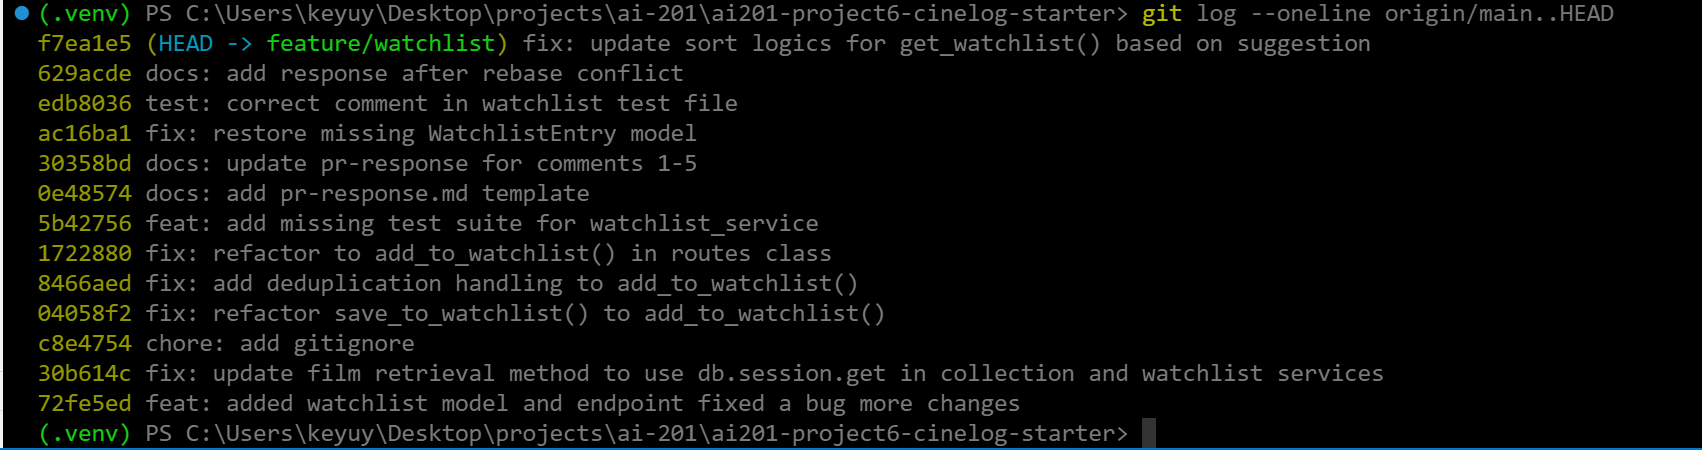
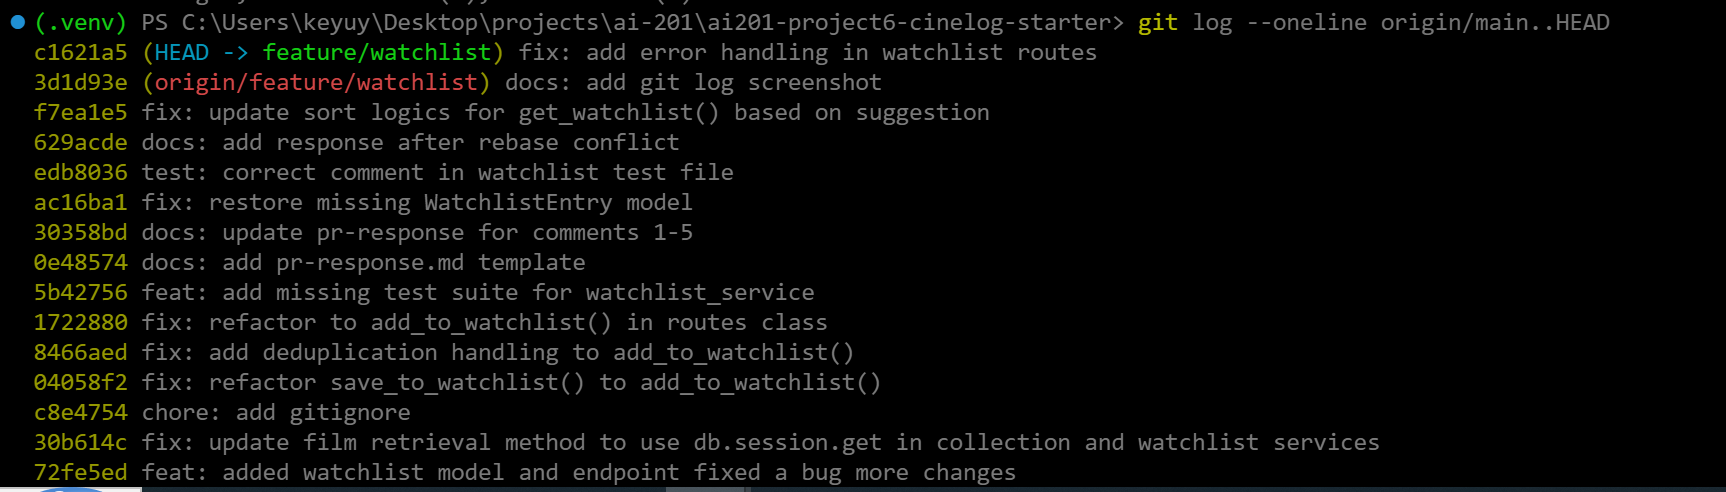
docs: add new git log screenshot and pr description

Changed region(s): [[0.0, 0.0, 1.0, 1.0]]

diff --git a/pr-response.md b/pr-response.md
@@ -1,7 +1,6 @@
 # PR Response Doc — CineLog Watchlist Feature
 
 ![Git Log](image.png)
-
 ## AI Usage
 <!-- Fill in at the end — how you used AI tools during this project -->
 
@@ -37,3 +36,66 @@
 
 ## PR Description
 <!-- Written at the end — feature overview, design decisions, manual testing steps -->
+
+### Overview
+
+This PR adds the **watchlist** feature: a way for users to save films they intend to watch later, separate from their `collection` (films they've already watched and rated). It introduces:
+
+- `WatchlistEntry` model (`models.py`) — tracks `user_id`, `film_id`, `date_added`, and `public`, with a unique constraint on `(user_id, film_id)` to prevent duplicate entries at the DB level.
+- `services/watchlist_service.py` — `add_to_watchlist(user_id, film_id)` and `get_watchlist(user_id)`, raising `FilmNotFoundError` for an unknown film and `AlreadyInWatchlistError` for a duplicate add.
+- `routes/watchlist/watchlist.py` — registered at `/watchlist`:
+  - `GET /watchlist/<user_id>` — returns the user's watchlist as a list of film dicts, each annotated with `date_added` and `public`.
+  - `POST /watchlist/<user_id>/add` — body `{ "film_id": <id> }`, adds a film to the watchlist and returns the new entry (`201`), or `404`/`409` on the error cases above.
+
+### Design decisions
+
+1. **Visibility default — `public=True`.** New watchlist entries default to public. This supports user-to-user engagement around shared film interests (e.g. seeing what others want to watch) and gives visibility into aggregate interest in a film. Tradeoff: this exposes a user's film preferences by default, which not every user may want — see Comment 4 above for the full reasoning and the acknowledged privacy tradeoff.
+2. **Sort order — `date_added` descending.** `get_watchlist()` returns the most recently added films first, since the newest additions are the closest reflection of a user's current taste and what they're most likely to want to watch next. See Comment 5 above for why this was chosen over sorting by title.
+
+### Manual testing
+
+Start the app (`python app.py` or however it's run locally) and confirm a `user` and at least one `film` already exist in the DB (needed to satisfy the foreign keys below). Then, using `curl` or Postman:
+
+1. **Add a film to the watchlist (happy path)**
+   ```
+   POST /watchlist/<user_id>/add
+   Body: { "film_id": <existing_film_id> }
+   ```
+   Expect `201` with the new entry, including `"public": true` and a `date_added` timestamp.
+
+2. **Add a second, different film to the same watchlist**
+   ```
+   POST /watchlist/<user_id>/add
+   Body: { "film_id": <another_existing_film_id> }
+   ```
+   Expect `201`.
+
+3. **View the watchlist and check sort order**
+   ```
+   GET /watchlist/<user_id>
+   ```
+   Expect both films back, newest-added film first (i.e. the film added in step 2 appears before the one from step 1).
+
+4. **Attempt to re-add the same film (deduplication)**
+   ```
+   POST /watchlist/<user_id>/add
+   Body: { "film_id": <film_id_from_step_1> }
+   ```
+   Expect `409` with an error message stating the film is already in the watchlist. Confirm via `GET /watchlist/<user_id>` that no duplicate entry was created.
+
+5. **Attempt to add a nonexistent film**
+   ```
+   POST /watchlist/<user_id>/add
+   Body: { "film_id": "00000000-0000-0000-0000-000000000000" }
+   ```
+   Expect `404` with an error message stating no film was found for that id.
+
+6. **Attempt to add without a `film_id`**
+   ```
+   POST /watchlist/<user_id>/add
+   Body: {}
+   ```
+   Expect `400` with `{"error": "film_id is required"}`.
+
+7. **Confirm the `public` field is present on every entry**
+   Re-run `GET /watchlist/<user_id>` and check each film dict includes `"public": true`, matching the default-visibility design decision above.
